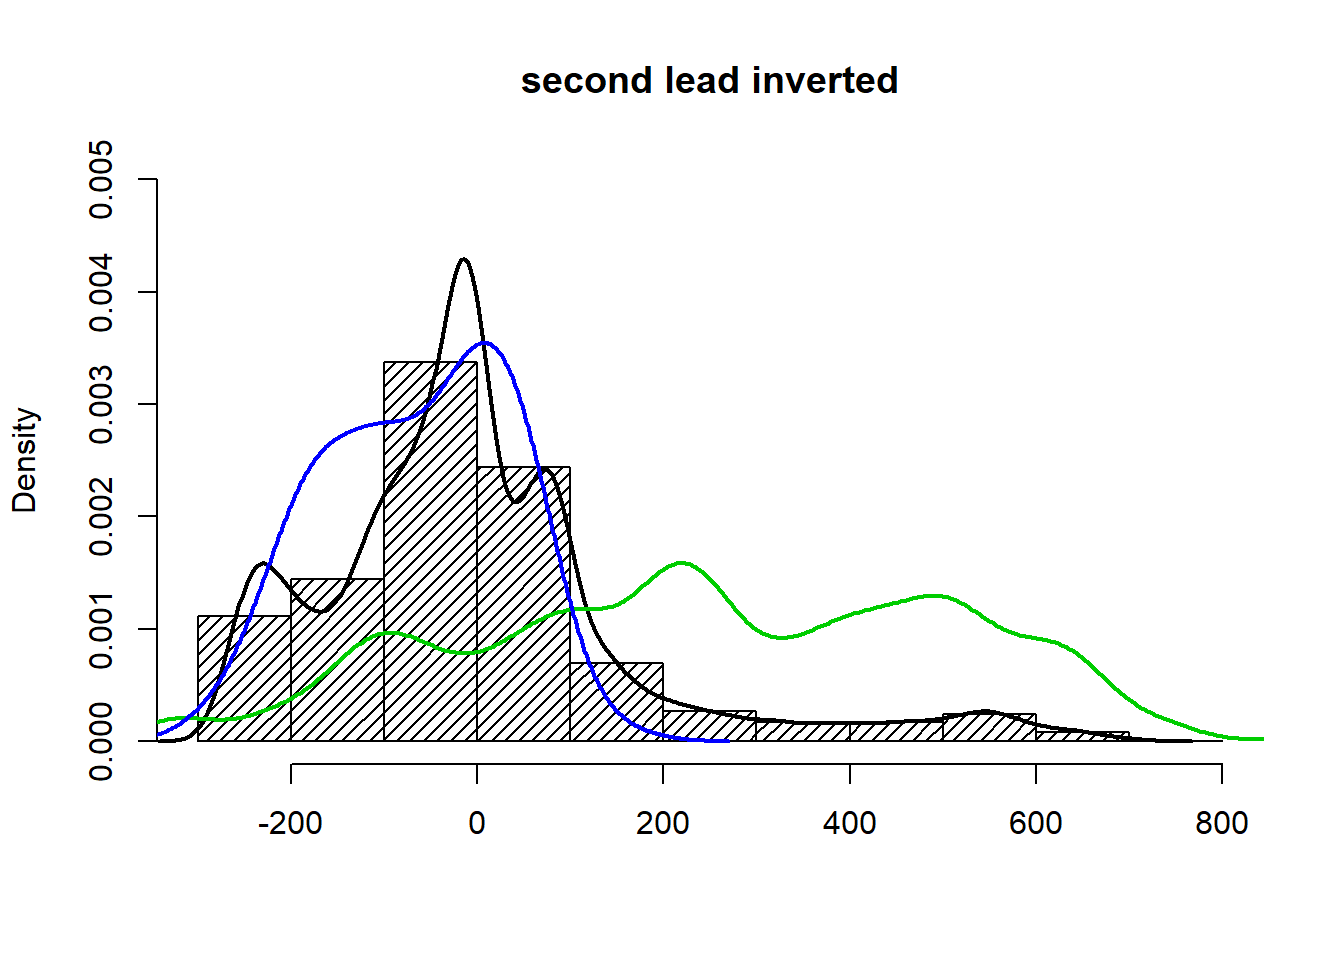
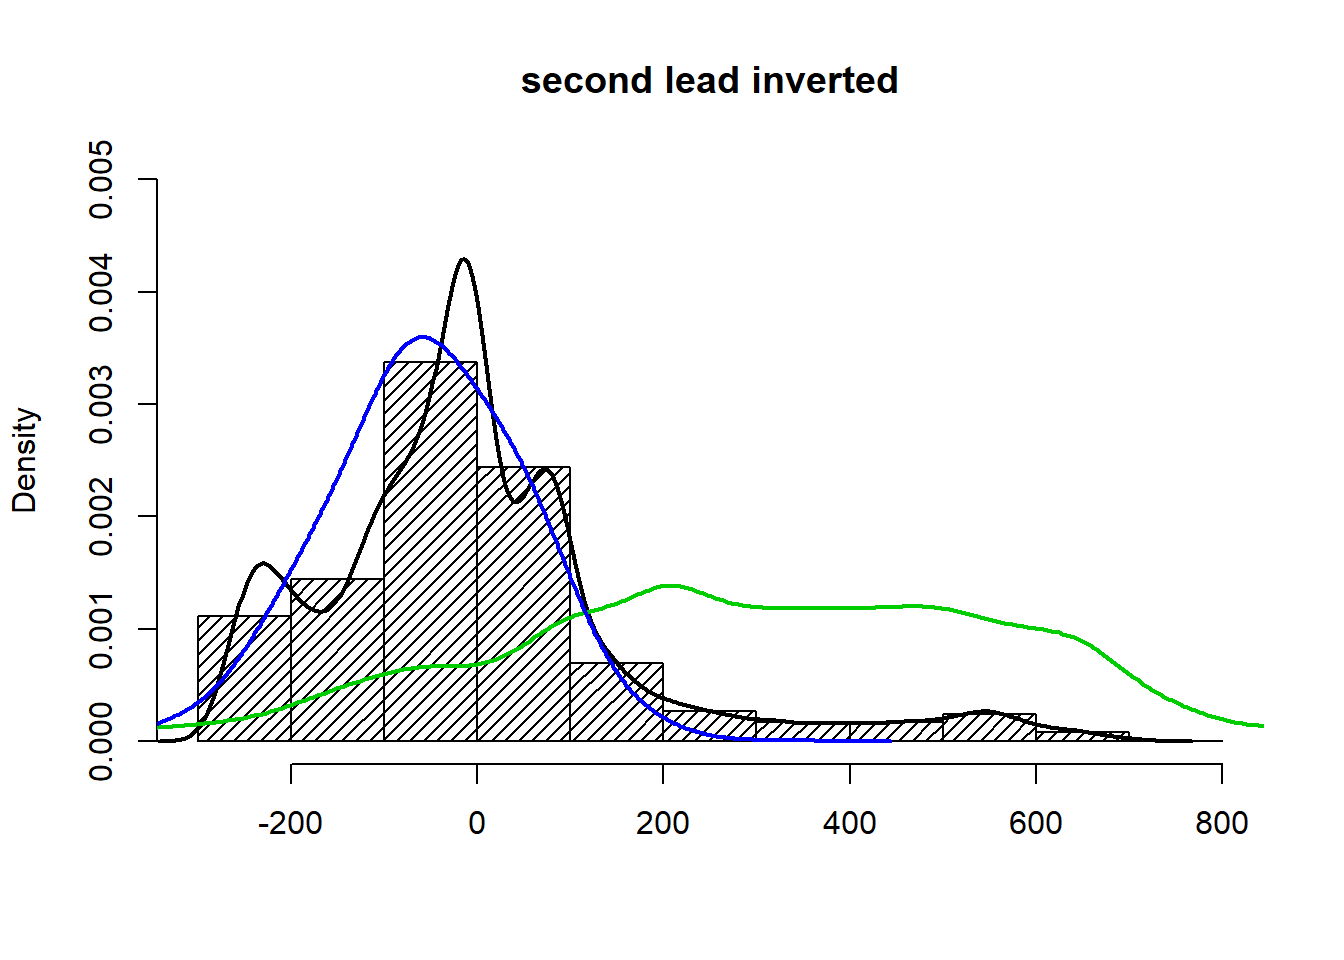
assignment Lead 2 from COMPSTAT minor corrections

diff --git a/_book/assignment-second-lead-from-ecg.html b/_book/assignment-second-lead-from-ecg.html
@@ -318,10 +318,11 @@ code span.wa { color: #60a0b0; font-weight: bold; font-style: italic; } /* Warni
 <a class="sourceLine" id="cb8-9" title="9"><span class="kw">hist</span>(fA1[,i], <span class="dt">density =</span> <span class="dv">10</span>,</a>
 <a class="sourceLine" id="cb8-10" title="10">     <span class="dt">main=</span><span class="kw">paste</span>(<span class="st">&quot;ECG lead&quot;</span>,i, <span class="dt">sep =</span> <span class="st">&quot; &quot;</span>),</a>
 <a class="sourceLine" id="cb8-11" title="11">     <span class="dt">freq=</span>F,</a>
-<a class="sourceLine" id="cb8-12" title="12">     <span class="dt">xlab=</span><span class="st">&quot;ECG values&quot;</span>)</a>
-<a class="sourceLine" id="cb8-13" title="13"><span class="kw">lines</span>(<span class="kw">density</span>(fA1[,i]),</a>
-<a class="sourceLine" id="cb8-14" title="14">      <span class="dt">lwd=</span><span class="dv">2</span>,<span class="dt">col=</span><span class="st">&quot;black&quot;</span>)</a>
-<a class="sourceLine" id="cb8-15" title="15">}</a></code></pre></div>
+<a class="sourceLine" id="cb8-12" title="12">     <span class="dt">ylim=</span><span class="kw">c</span>(<span class="dv">0</span>,<span class="kw">max</span>(<span class="kw">density</span>(fA1[,i]<span class="op">*</span>(<span class="op">-</span><span class="dv">1</span>))[[<span class="st">&quot;y&quot;</span>]])),</a>
+<a class="sourceLine" id="cb8-13" title="13">     <span class="dt">xlab=</span><span class="st">&quot;ECG values&quot;</span>)</a>
+<a class="sourceLine" id="cb8-14" title="14"><span class="kw">lines</span>(<span class="kw">density</span>(fA1[,i]),</a>
+<a class="sourceLine" id="cb8-15" title="15">      <span class="dt">lwd=</span><span class="dv">2</span>,<span class="dt">col=</span><span class="st">&quot;black&quot;</span>)</a>
+<a class="sourceLine" id="cb8-16" title="16">}</a></code></pre></div>
 <p><img src="heads2sem_files/figure-html/unnamed-chunk-3-1.png" width="672" /></p>
 </div>
 <div id="em-algorithm-for-2-latent-classes" class="section level3">
@@ -356,10 +357,10 @@ code span.wa { color: #60a0b0; font-weight: bold; font-style: italic; } /* Warni
 ## iteration 24 evolution: 2.490897 
 ## iteration 25 evolution: 0</code></pre>
 <div class="sourceCode" id="cb11"><pre class="sourceCode r"><code class="sourceCode r"><a class="sourceLine" id="cb11-1" title="1"><span class="co"># adding density curves from the 2 clusters</span></a>
-<a class="sourceLine" id="cb11-2" title="2"><span class="kw">lines</span>(<span class="kw">density</span>(<span class="kw">rnorm</span>(<span class="dv">100</span>, res<span class="op">$</span>medias[<span class="dv">1</span>], res<span class="op">$</span>desvpadrao[<span class="dv">1</span>]), <span class="dt">bw =</span> <span class="dv">40</span>),<span class="dt">lwd=</span><span class="dv">2</span>,<span class="dt">col=</span><span class="dv">3</span>)</a>
-<a class="sourceLine" id="cb11-3" title="3"><span class="kw">lines</span>(<span class="kw">density</span>(<span class="kw">rnorm</span>(<span class="dv">100</span>, res<span class="op">$</span>medias[<span class="dv">2</span>], res<span class="op">$</span>desvpadrao[<span class="dv">2</span>]), <span class="dt">bw =</span> <span class="dv">40</span>),<span class="dt">lwd=</span><span class="dv">2</span>,<span class="dt">col=</span><span class="dv">4</span>)</a></code></pre></div>
+<a class="sourceLine" id="cb11-2" title="2"><span class="kw">lines</span>(<span class="kw">density</span>(<span class="kw">rnorm</span>(<span class="dv">1000</span>, res<span class="op">$</span>medias[<span class="dv">1</span>], res<span class="op">$</span>desvpadrao[<span class="dv">1</span>]), <span class="dt">bw =</span> <span class="dv">40</span>),<span class="dt">lwd=</span><span class="dv">2</span>,<span class="dt">col=</span><span class="dv">3</span>)</a>
+<a class="sourceLine" id="cb11-3" title="3"><span class="kw">lines</span>(<span class="kw">density</span>(<span class="kw">rnorm</span>(<span class="dv">1000</span>, res<span class="op">$</span>medias[<span class="dv">2</span>], res<span class="op">$</span>desvpadrao[<span class="dv">2</span>]), <span class="dt">bw =</span> <span class="dv">40</span>),<span class="dt">lwd=</span><span class="dv">2</span>,<span class="dt">col=</span><span class="dv">4</span>)</a></code></pre></div>
 <p><img src="heads2sem_files/figure-html/unnamed-chunk-4-1.png" width="672" /></p>
-<div class="sourceCode" id="cb12"><pre class="sourceCode r"><code class="sourceCode r"><a class="sourceLine" id="cb12-1" title="1"><span class="co">## column with 2 classes to classified data from each cluster</span></a>
+<div class="sourceCode" id="cb12"><pre class="sourceCode r"><code class="sourceCode r"><a class="sourceLine" id="cb12-1" title="1"><span class="co">## column with 2 classes to classify data from each cluster</span></a>
 <a class="sourceLine" id="cb12-2" title="2"><span class="kw">attach</span>(res<span class="op">$</span>classe)</a>
 <a class="sourceLine" id="cb12-3" title="3">classe2&lt;-<span class="kw">ifelse</span>(V1 <span class="op">==</span><span class="st"> </span><span class="dv">1</span>, <span class="dv">3</span> ,<span class="dv">4</span>) <span class="co"># create &#39;m&#39; classes</span></a>
 <a class="sourceLine" id="cb12-4" title="4"><span class="kw">detach</span>()</a>
@@ -389,11 +390,11 @@ code span.wa { color: #60a0b0; font-weight: bold; font-style: italic; } /* Warni
 ## iteration 11 evolution: 0.6580674 
 ## iteration 12 evolution: 0</code></pre>
 <div class="sourceCode" id="cb15"><pre class="sourceCode r"><code class="sourceCode r"><a class="sourceLine" id="cb15-1" title="1"><span class="co"># adding density curves from the 3 clusters</span></a>
-<a class="sourceLine" id="cb15-2" title="2"><span class="kw">lines</span>(<span class="kw">density</span>(<span class="kw">rnorm</span>(<span class="dv">100</span>, res<span class="op">$</span>medias[<span class="dv">1</span>], res<span class="op">$</span>desvpadrao[<span class="dv">1</span>]), <span class="dt">bw =</span> <span class="dv">40</span>),<span class="dt">lwd=</span><span class="dv">2</span>,<span class="dt">col=</span><span class="dv">3</span>)</a>
-<a class="sourceLine" id="cb15-3" title="3"><span class="kw">lines</span>(<span class="kw">density</span>(<span class="kw">rnorm</span>(<span class="dv">100</span>, res<span class="op">$</span>medias[<span class="dv">2</span>], res<span class="op">$</span>desvpadrao[<span class="dv">2</span>]), <span class="dt">bw =</span> <span class="dv">40</span>),<span class="dt">lwd=</span><span class="dv">2</span>,<span class="dt">col=</span><span class="dv">4</span>)</a>
-<a class="sourceLine" id="cb15-4" title="4"><span class="kw">lines</span>(<span class="kw">density</span>(<span class="kw">rnorm</span>(<span class="dv">100</span>, res<span class="op">$</span>medias[<span class="dv">3</span>], res<span class="op">$</span>desvpadrao[<span class="dv">3</span>]), <span class="dt">bw =</span> <span class="dv">40</span>),<span class="dt">lwd=</span><span class="dv">2</span>,<span class="dt">col=</span><span class="dv">5</span>)</a></code></pre></div>
+<a class="sourceLine" id="cb15-2" title="2"><span class="kw">lines</span>(<span class="kw">density</span>(<span class="kw">rnorm</span>(<span class="dv">1000</span>, res<span class="op">$</span>medias[<span class="dv">1</span>], res<span class="op">$</span>desvpadrao[<span class="dv">1</span>]), <span class="dt">bw =</span> <span class="dv">40</span>),<span class="dt">lwd=</span><span class="dv">2</span>,<span class="dt">col=</span><span class="dv">3</span>)</a>
+<a class="sourceLine" id="cb15-3" title="3"><span class="kw">lines</span>(<span class="kw">density</span>(<span class="kw">rnorm</span>(<span class="dv">1000</span>, res<span class="op">$</span>medias[<span class="dv">2</span>], res<span class="op">$</span>desvpadrao[<span class="dv">2</span>]), <span class="dt">bw =</span> <span class="dv">40</span>),<span class="dt">lwd=</span><span class="dv">2</span>,<span class="dt">col=</span><span class="dv">4</span>)</a>
+<a class="sourceLine" id="cb15-4" title="4"><span class="kw">lines</span>(<span class="kw">density</span>(<span class="kw">rnorm</span>(<span class="dv">1000</span>, res<span class="op">$</span>medias[<span class="dv">3</span>], res<span class="op">$</span>desvpadrao[<span class="dv">3</span>]), <span class="dt">bw =</span> <span class="dv">40</span>),<span class="dt">lwd=</span><span class="dv">2</span>,<span class="dt">col=</span><span class="dv">5</span>)</a></code></pre></div>
 <p><img src="heads2sem_files/figure-html/unnamed-chunk-5-1.png" width="672" /></p>
-<div class="sourceCode" id="cb16"><pre class="sourceCode r"><code class="sourceCode r"><a class="sourceLine" id="cb16-1" title="1"><span class="co">## column with 3 classes to classified data from each cluster</span></a>
+<div class="sourceCode" id="cb16"><pre class="sourceCode r"><code class="sourceCode r"><a class="sourceLine" id="cb16-1" title="1"><span class="co">## column with 3 classes to classify data from each cluster</span></a>
 <a class="sourceLine" id="cb16-2" title="2"><span class="kw">attach</span>(res<span class="op">$</span>classe)</a>
 <a class="sourceLine" id="cb16-3" title="3">classe3&lt;-<span class="kw">ifelse</span>(V1 <span class="op">==</span><span class="st"> </span><span class="dv">1</span>, <span class="dv">3</span> ,</a>
 <a class="sourceLine" id="cb16-4" title="4">               <span class="kw">ifelse</span>(V2 <span class="op">==</span><span class="st"> </span><span class="dv">1</span>, <span class="dv">4</span>, <span class="dv">5</span>)) <span class="co"># create &#39;m&#39; classes</span></a>
